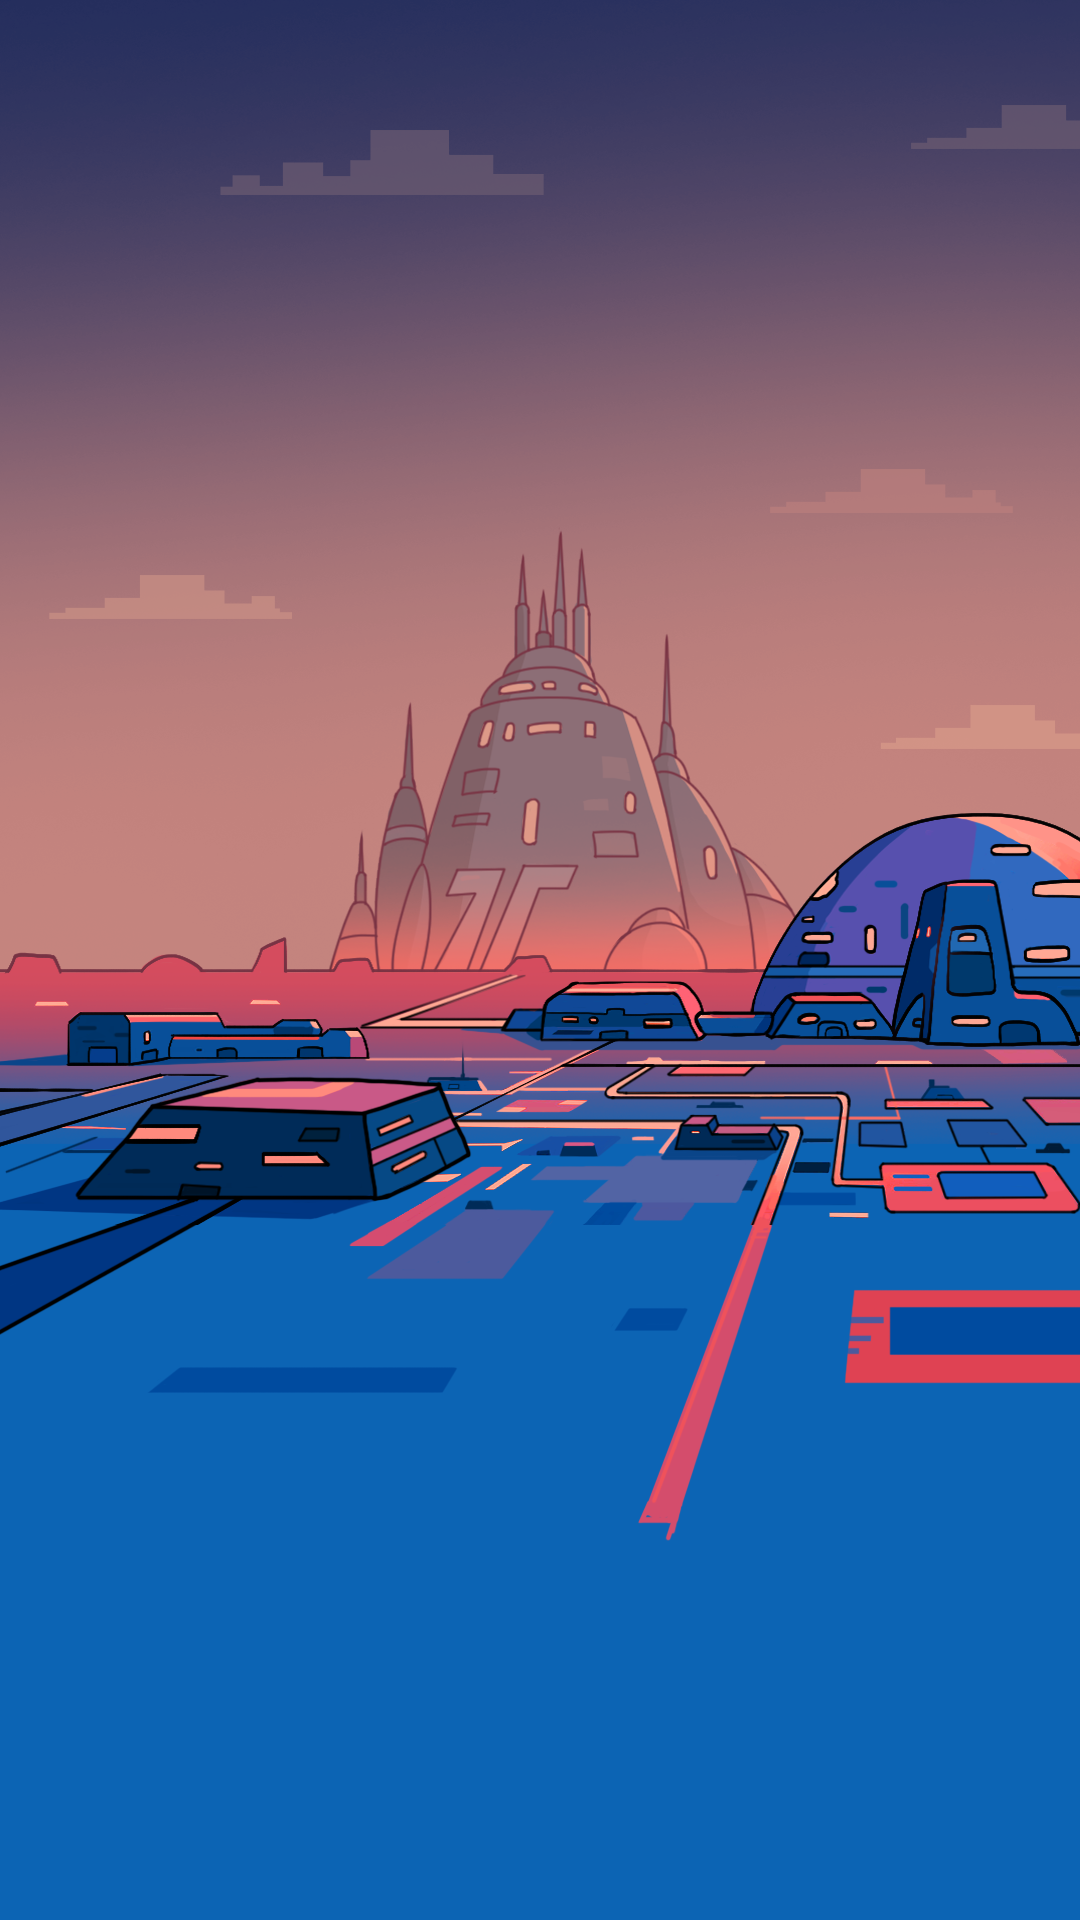
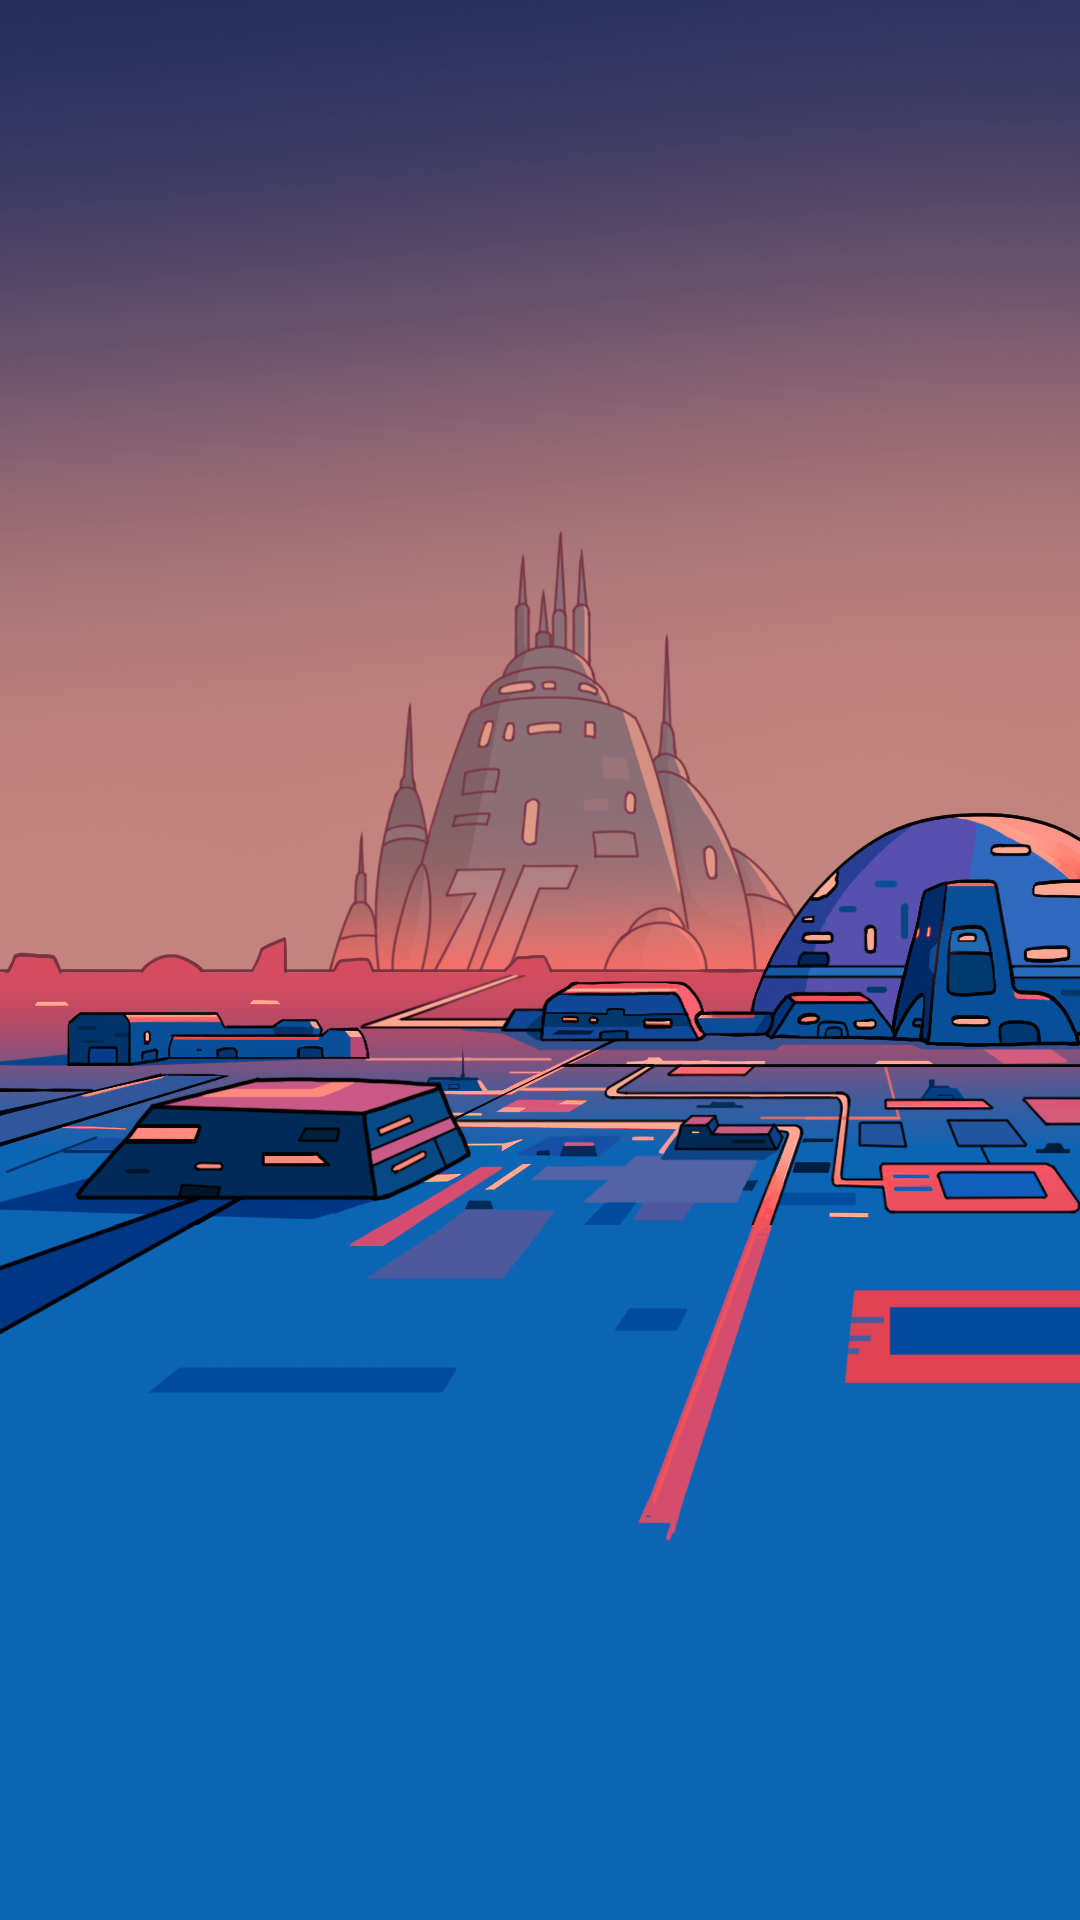
menu 界面云层缓动

Changed region(s): [[0.2139, 0.0625, 0.4583, 0.125], [0.8556, 0.0312, 1.0, 0.0938]]

diff --git a/Assets/Scripts/ECS/script/Menu/MenuCloudMove.cs b/Assets/Scripts/ECS/script/Menu/MenuCloudMove.cs
@@ -1,0 +1,45 @@
+
+using System;
+using UnityEngine;
+
+public class MenuCloudMove : MonoBehaviour
+{
+    private float Speed = -0.5f;
+
+    private void Start()
+    {
+        Speed = -0.5f;
+    }
+
+    private void FixedUpdate()
+    {
+        if (Speed > 0)
+            {
+                if (gameObject.GetComponent<RectTransform>().anchoredPosition.x >= 0)
+                {
+                    Speed = -Speed;
+                    return;
+                }
+
+                gameObject.GetComponent<RectTransform>().anchoredPosition = new Vector2( gameObject.GetComponent<RectTransform>().anchoredPosition.x
+                    +Speed, gameObject.GetComponent<RectTransform>().anchoredPosition.y);
+            }
+            else
+            {
+                if (gameObject.GetComponent<RectTransform>().anchoredPosition.x <= -1000)
+                {
+                    Speed = -Speed;
+                    return;
+                }
+
+                gameObject.GetComponent<RectTransform>().anchoredPosition = new Vector2( gameObject.GetComponent<RectTransform>().anchoredPosition.x
+                    +Speed, gameObject.GetComponent<RectTransform>().anchoredPosition.y);
+              
+            
+            }
+        
+    }
+    
+    
+    
+}
